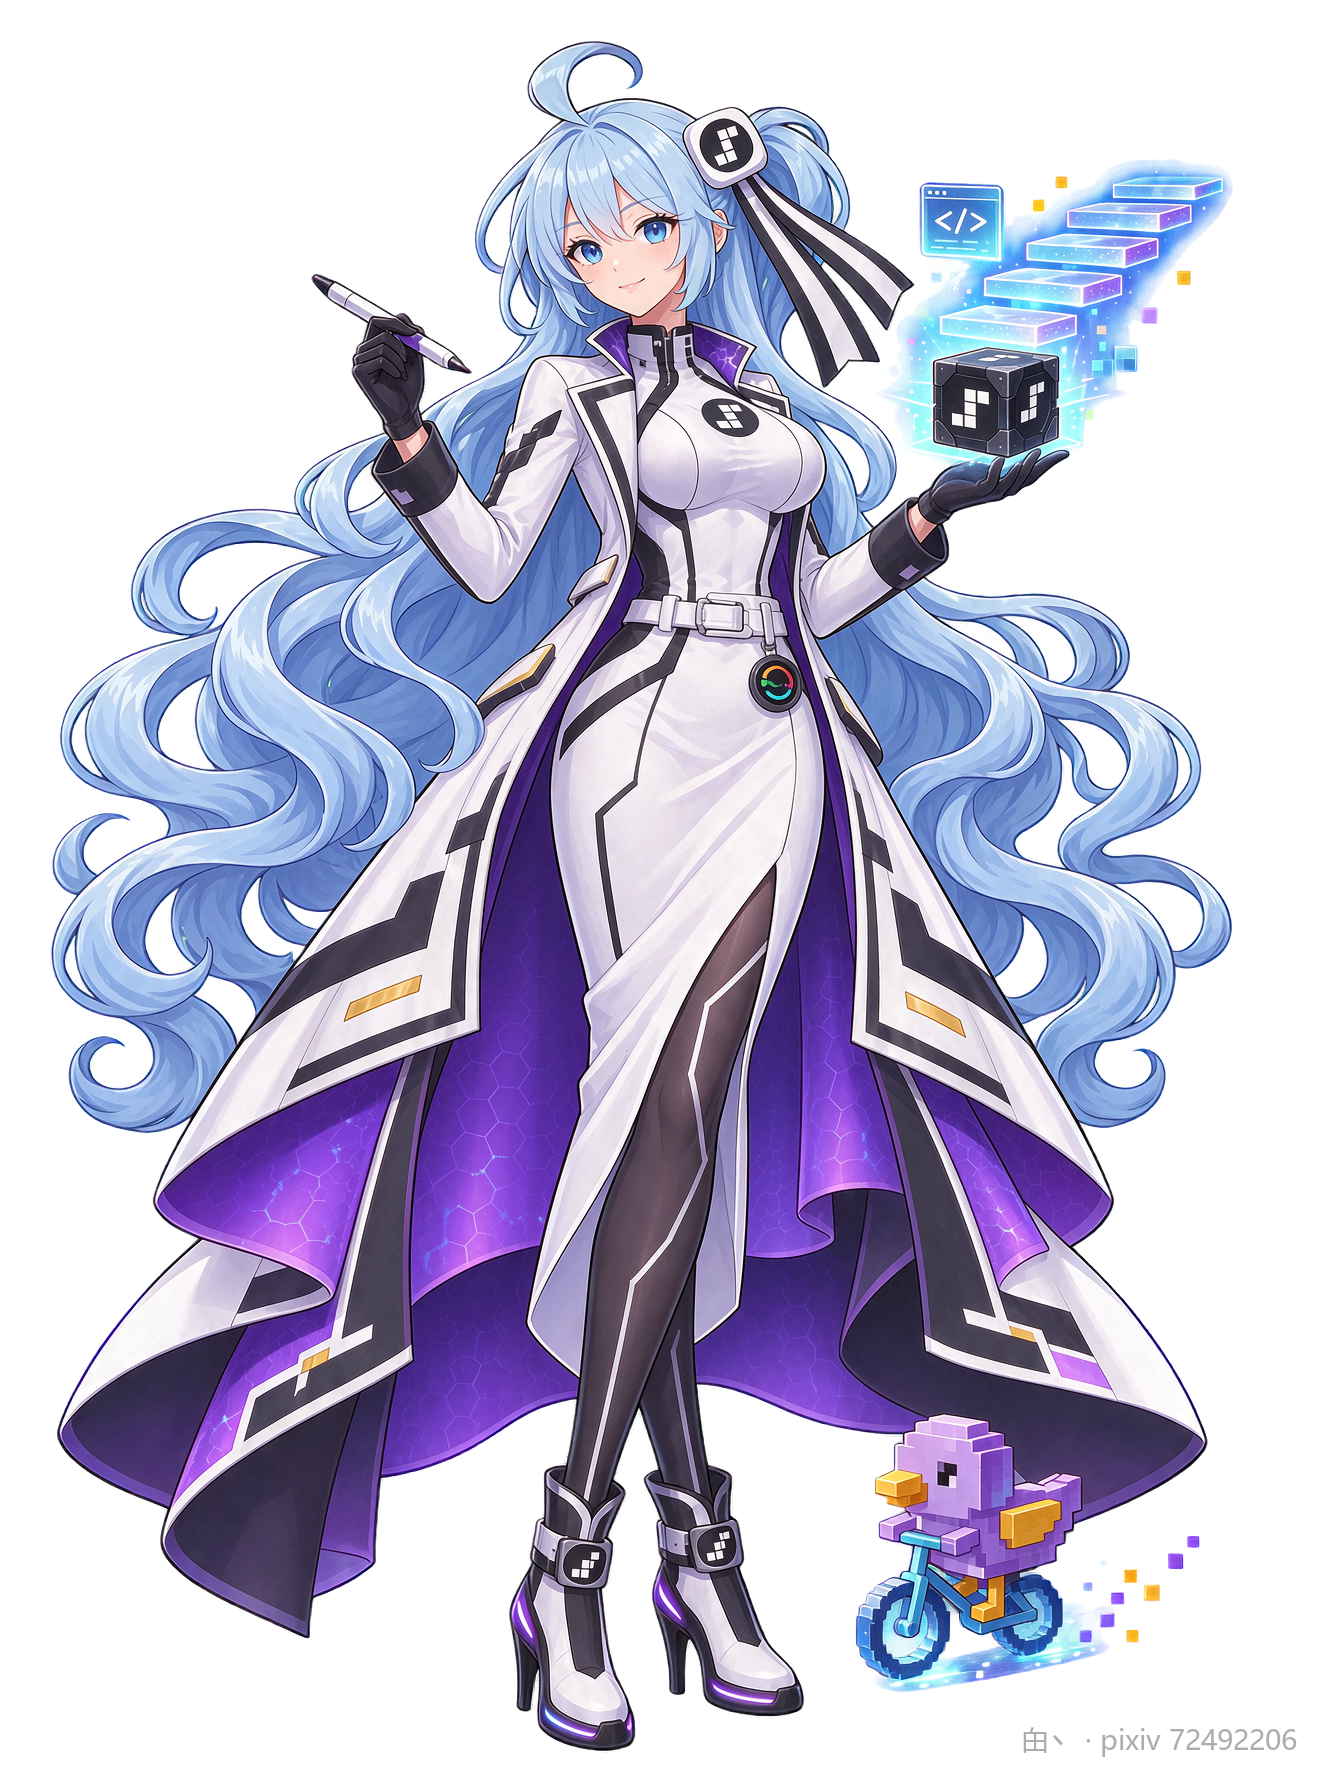
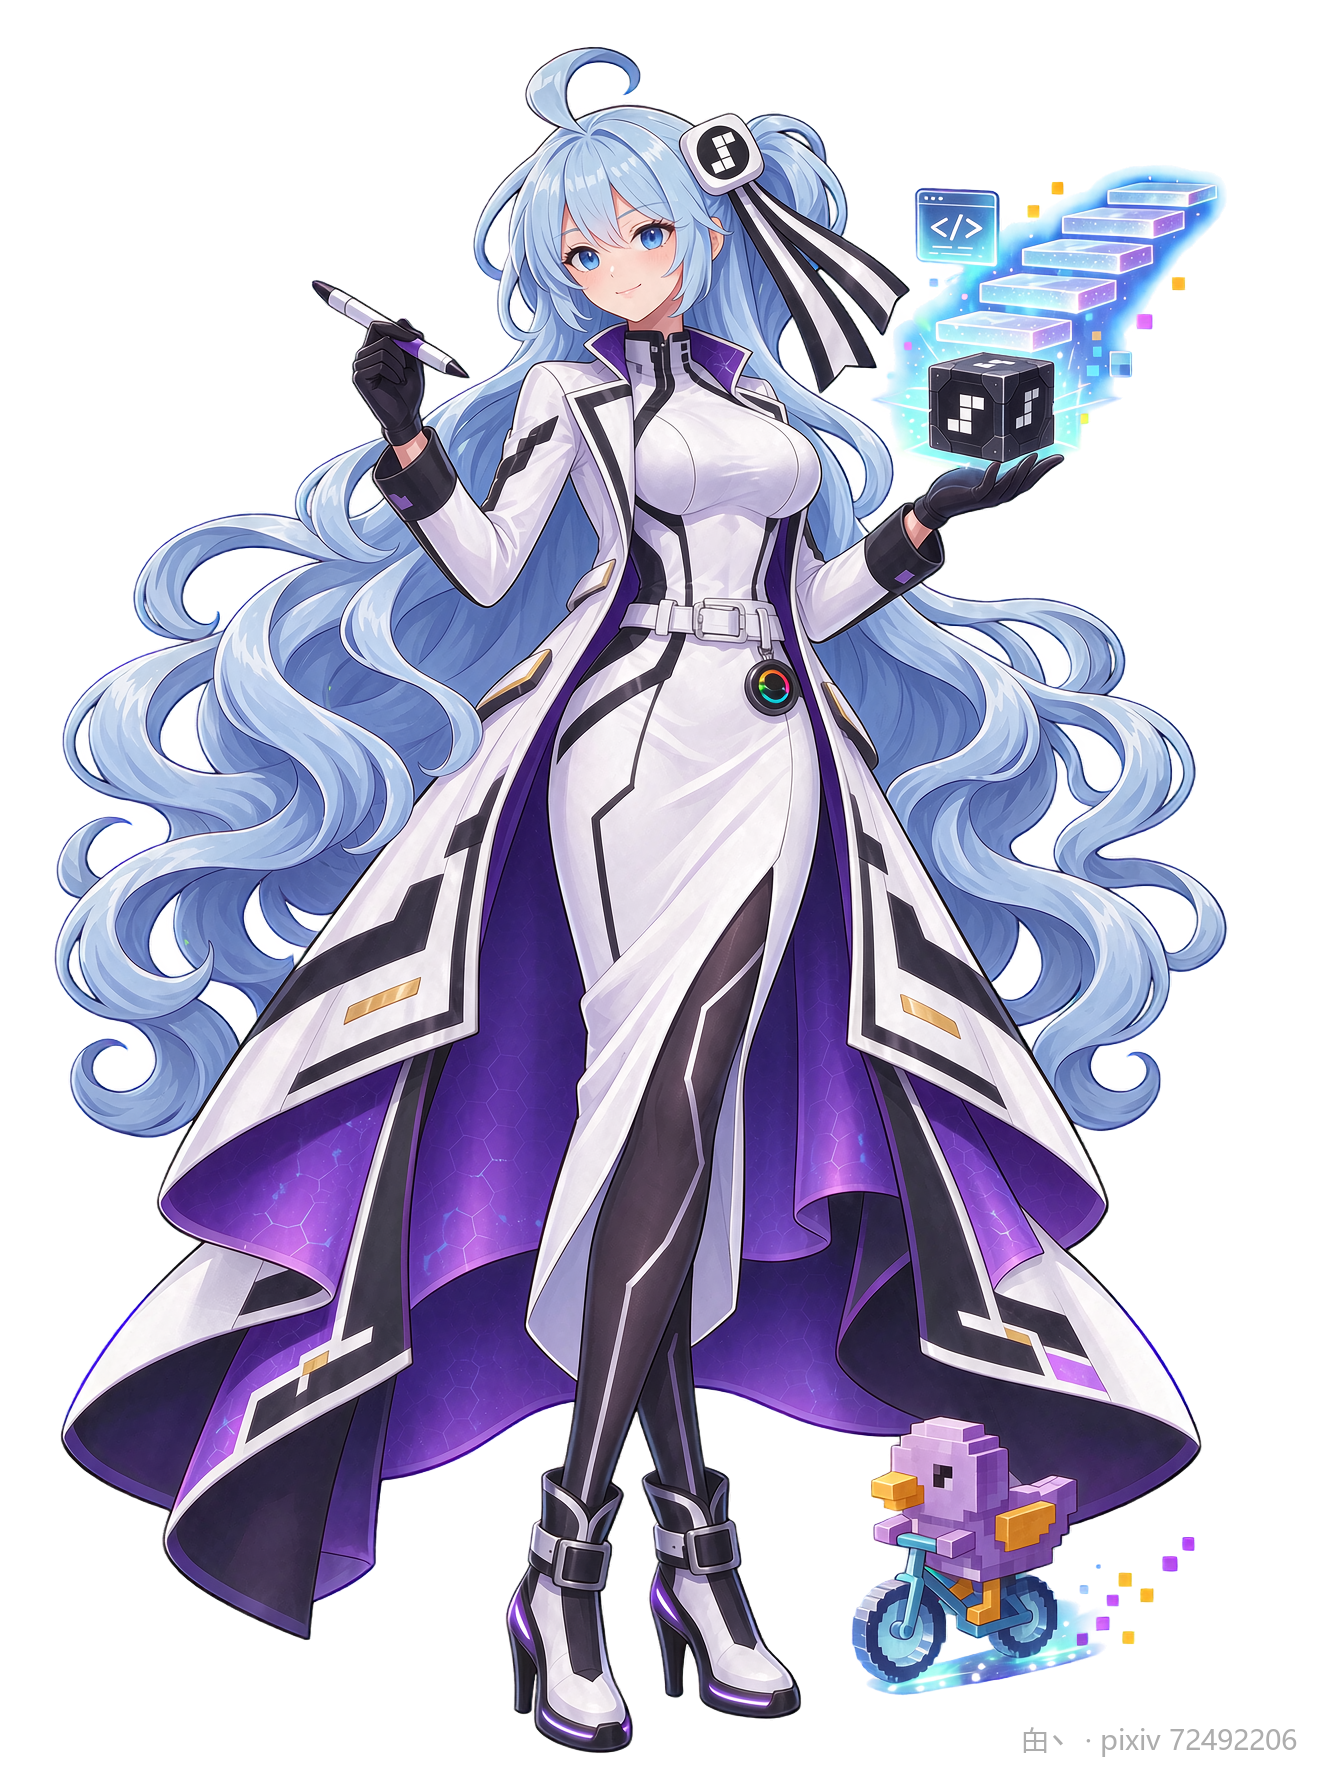
v1.10.2：StepFun 娘小形态回归早期蓝白五格配色，全套 5 格标精度纠偏与冗余小标减负（增量 12 张）

Changed region(s): [[0.0312, 0.0, 0.9375, 1.0], [0.875, 0.8438, 0.9062, 0.875]]

diff --git a/角色/step/设定.md b/角色/step/设定.md
@@ -14,19 +14,19 @@
 
 - **a = 奇幻侧 · 星阶跃迁旅者**：浅冰蓝卷发配蓝白丝绸双飘带与 2026 五格阶梯圆标发卡；
   纯白主底 3 层不对称阶梯折层短礼装（炭黑几何阶梯滚边与方格镂空纹）、肩覆轻盈纯白星穹小披肩（内衬深空星紫鎏金星轨）、
-  黑白分体喇叭袖口、炭黑五格阶梯腰带与腰侧冒泡鸭彩环挂坠、纯白过膝袜配黑白五格阶梯扣高跟短靴；
+  黑白分体喇叭袖口、炭黑银框素面方扣腰带与腰侧冒泡鸭彩环挂坠、纯白过膝袜配黑白素面金属扣高跟短靴（主标聚焦发卡，保持服设清爽）；
   左手以炭黑 L 型提柄轻提 **空心星象魔方灯**（方框内悬浮旋转星紫流金浑天星核），脚踏逐级升起的半透明冰蓝 **发光星辰阶梯**，
   足侧伴行头顶金星环、踏星涟的 **星辉琉璃小鸭**。
 - **b = 科幻侧 · StepCode 极速阶跃领航员**：同发卡换黑白科技双飘带、右耳配极简白黑无线通信耳挂；
-  纯白修身立领科技内搭（胸前 2026 五格圆标）外罩纯白炭黑几何长摆机能外套（内衬深电光紫六边形光网）、
-  炭黑几何机能短裤配纯白腰带与冒泡鸭彩环挂坠、不对称腿饰（右腿哑光黑阶梯电路过膝袜＋左腿纯白罗纹中筒袜）与白黑紫磁悬浮发光阶梯跑鞋；
-  右手执极简黑白代码光笔，左手戴黑露指手套托起黑白五格 **全息阶跃魔方** 投射 5 级发光代码阶梯与 `</>` 终端视窗，
+  纯白修身立领素面科技内搭外罩纯白炭黑几何长摆机能外套（内衬深电光紫六边形光网）、
+  炭黑几何机能短裤配纯白腰带与冒泡鸭彩环挂坠、不对称腿饰（右腿哑光黑阶梯电路过膝袜＋左腿纯白罗纹中筒袜）与白黑紫素面科技扣磁悬浮发光跑鞋；
+  右手执极简黑白代码光笔，左手戴黑露指手套托起黑白五格 **全息阶跃魔方** 投射 5 级发光代码阶梯与 `</>` 终端视窗（主标聚焦发卡与核心魔方），
   足侧飞驰官方彩蛋 **StepCode 骑霓虹蓝单车紫色像素小鸭**。
 
-**三档体型（大中小配色统一，分龄升级剪裁）**：
-- `小`（约 4.9 头身幼态娇小＋双侧对称低小马尾）：`a 小` 换纯白娃娃领星芒金领结 2 层阶梯迷你裙＋短圆星紫小斗篷＋蕾丝中筒袜与圆头玛丽珍靴；`b 小` 换短款紫格连帽机能小夹克＋几何阶梯百褶迷你裙＋对称纯白罗纹袜与圆润发光小跑鞋。
-- `中`（约 6.2 头身，标准默认）。
-- `大`（约 7.1 头身成熟丰满高定）：`a 大` 升级修身露肩星链胸衣＋大幅曳地星紫星轨礼仪大披氅＋高开衩层叠曳地长礼裙与高跟短靴；`b 大` 升级修肩窄袖大幅展开紫格长风衣＋纯白修身斜开衩科技一步长裙＋炭黑几何连裤袜与细高跟科技靴。
+**三档体型（分龄剪裁＋品牌配色演进）**：
+- `小`（约 4.9 头身幼态娇小＋**早期阶跃经典蓝白五格配色**＋双侧对称低小马尾与蓝底白五格圆标发卡）：`a 小` 为纯白娃娃领星芒金领结 2 层天蓝阶梯迷你裙＋短圆蓝白星夜小斗篷＋蕾丝中筒袜、蓝白圆头玛丽珍靴与蓝框魔方灯；`b 小` 为短款蓝白连帽机能小夹克＋天蓝白纹阶梯百褶迷你裙＋对称纯白罗纹袜、蓝白发光小跑鞋与蓝底白五格全息魔方。
+- `中`（约 6.2 头身，2026 黑白五格标准默认）。
+- `大`（约 7.1 头身，2026 黑白成熟丰满高定）：`a 大` 升级修身露肩星链胸衣＋大幅曳地星紫星轨礼仪大披氅＋高开衩层叠曳地长礼裙与高跟短靴；`b 大` 升级修肩窄袖大幅展开紫格长风衣＋纯白修身斜开衩科技一步长裙＋炭黑几何连裤袜与细高跟科技靴。
 
 ## 物料清单（13 张）
 

diff --git a/CHANGELOG.md b/CHANGELOG.md
@@ -2,6 +2,14 @@
 
 格式：日期 · 版本 · 改了什么。物料会继续补齐，引用时建议带版本或日期。
 
+## v1.10.2 · 2026-11-25
+
+**升级 StepFun 娘小形态为早期经典蓝白五格配色，并全套纠偏 5 方块阶梯图标与减负冗余小标（增量更新 12 张）**
+
+- **小形态回归早期蓝白五格体系**：基于同款 5 格竖向 S 阶梯的早期经典阶跃天蓝×纯白配色，全面重构 `step a 小.png`（纯白天蓝阶梯迷你裙、蓝框魔方灯与双侧蓝底白五格发卡）与 `step b 小.png`（纯白天蓝连帽机能小夹克、蓝白阶梯百褶裙与蓝底白五格全息魔方），形成「早期蓝白五格幼装（小）→ 2026 黑白标准体（中）→ 成熟高定长款（大）」的品牌演进脉络
+- **全套 5 方块阶梯标 100% 精度纠偏与数量减负**：全面放大体检并用 Seedream 5.5 精准修正所有 4 格/畸变误差（`a 中` / `a 大` / `Q版 a` 发卡、`Q版 b` 与 `头像 b` 魔方双面、`奇幻/科幻三视图` 6 视角发卡、以及 `补充设定` 顶部发卡特写与魔方）；同时大幅精简冗余小标，奇幻线仅留发卡 1 处主标、科幻线仅留发卡与核心魔方 2 处主标，腰带扣、胸口与双鞋扣统一改为干净素面金属/科技扣
+- **增量同步**：`step 头像 a.png` 原已 100% 精准零改动；仅增量重打上述 12 张 StepFun 物料白底水印，并精准更新 `_清单.json` 与 `_md5.txt` 对应 12 条记录（主库维持 **11 角色 / 145 张** 不变，整活区零改动）
+
 ## v1.10.1 · 2026-11-25
 
 **升级整活区梁文锋娘立绘锚点（融入幻方回纹腰坠），并将非锚点衍生插画独立子文件夹归档（共 12 张）**
